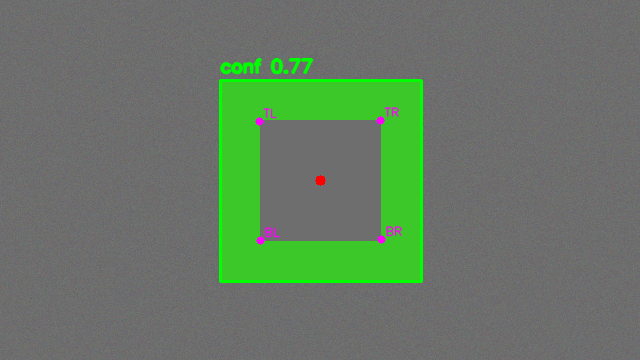
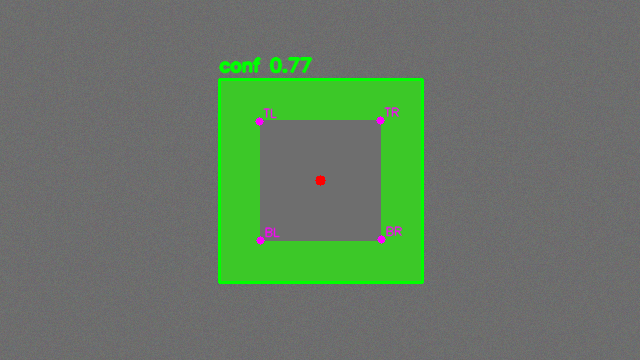
gate_detector blur

Changed region(s): [[0.3438, 0.1528, 0.6562, 0.2444], [0.3438, 0.7639, 0.6562, 0.7944]]

diff --git a/vision/gate_detector.py b/vision/gate_detector.py
@@ -57,6 +57,14 @@ DEFAULT_CFG = {
     "require_hole": True,        # enforce the annulus test on large candidates
     "hole_min_bbox_frac": 0.025, # bbox area / frame area above which the hole is mandatory
     "min_squareness": 0.35,  # outer bbox aspect floor (1.0 = square); banners are ~0.1-0.3
+    # Light pre-blur (2026-07-26): denoises the HSV mask so thin/aliased ring pixels
+    # threshold consistently frame-to-frame. Odd kernel; 0/1 disables.
+    "blur_ksize": 3,
+    # Next-gate handoff (2026-07-26): when the current gate fills the frame (we are at
+    # threading range) the guidance center should transfer THROUGH the aperture to the
+    # next gate visible inside the hole, so approach guidance is continuous across the
+    # pass instead of dying when gate 1 exits the frame.
+    "handoff_bbox_frac": 0.30,   # bbox/frame above which we look through the hole (0 = off)
 }
 
 
@@ -133,6 +141,12 @@ def detect_gate(bgr: np.ndarray, cfg: Optional[dict] = None) -> Optional[GateDet
 
     cfg = _make_cfg(cfg)
 
+    bk = int(cfg.get("blur_ksize", 0) or 0)
+    if bk >= 3:
+        if bk % 2 == 0:
+            bk += 1
+        bgr = cv2.GaussianBlur(bgr, (bk, bk), 0)
+
     hsv = cv2.cvtColor(bgr, cv2.COLOR_BGR2HSV)
     mask = _build_mask(hsv, cfg)
 
@@ -152,7 +166,7 @@ def detect_gate(bgr: np.ndarray, cfg: Optional[dict] = None) -> Optional[GateDet
     frame_px = float(bgr.shape[0] * bgr.shape[1])
     hole_min_bbox = float(cfg["hole_min_bbox_frac"]) * frame_px
 
-    best = None  # (score, index, inner_contour_or_None, inner_area)
+    candidates = []  # (score, index, inner_contour_or_None, inner_area, bbox)
     for i, cnt in enumerate(contours):
         # Only consider outer contours (no parent) as the gate frame body.
         if hierarchy[i][3] != -1:
@@ -200,13 +214,32 @@ def detect_gate(bgr: np.ndarray, cfg: Optional[dict] = None) -> Optional[GateDet
         # frame to frame, which showed up as the range bouncing ~16m <-> ~21m in the logs.
         # Make AREA the dominant term (nearest wins) while still requiring squareness/fill.
         score = area * (0.5 + 0.5 * square) * (0.5 + 0.5 * extent)
-        if best is None or score > best[0]:
-            best = (score, i, inner if has_hole else None, inner_area)
+        candidates.append((score, i, inner if has_hole else None, inner_area, (x, y, w, h)))
 
-    if best is None:
+    if not candidates:
         return None
 
-    _, idx, inner, inner_area = best
+    best = max(candidates, key=lambda c: c[0])
+
+    # Next-gate handoff: at threading range the current gate fills the frame; if the
+    # next gate is visible THROUGH its hole, report that one so the guidance center
+    # transfers through the aperture instead of dying when the near ring exits view.
+    handoff_frac = float(cfg.get("handoff_bbox_frac", 0.0) or 0.0)
+    _, _, b_inner, _, (bx, by, bw, bh) = best
+    if handoff_frac > 0 and b_inner is not None and bw * bh >= handoff_frac * frame_px:
+        hx, hy, hw, hh = cv2.boundingRect(b_inner)
+        through = []
+        for c in candidates:
+            if c is best:
+                continue
+            cx0, cy0, cw0, ch0 = c[4]
+            ccx, ccy = cx0 + cw0 / 2.0, cy0 + ch0 / 2.0
+            if hx <= ccx <= hx + hw and hy <= ccy <= hy + hh:
+                through.append(c)
+        if through:
+            best = max(through, key=lambda c: c[0])
+
+    _, idx, inner, inner_area, _ = best
     outer = contours[idx]
     x, y, w, h = cv2.boundingRect(outer)
     bbox_px = (int(x), int(y), int(w), int(h))

diff --git a/dreamer/src/dreamer_drone/env/drone_racing_env.py b/dreamer/src/dreamer_drone/env/drone_racing_env.py
@@ -162,6 +162,28 @@ class DroneRacingEnv:
         term = self.term_fn.check(ctx.dt_sim, snap.active_gate,
                                   snap.finished, collision_threat)
 
+        # Late gate-pass grace (2026-07-26): race_status lags the physical crossing
+        # (~0.75s update period measured), so a thread-then-clip crash can terminate
+        # the episode BEFORE the sim reports the pass — the +40 (the whole point of
+        # the episode) silently vanished. On a collision ending, poll briefly for a
+        # late active_gate increment and credit it to this final step.
+        if term.terminated and term.reason == "collision":
+            base_gate = int(snap.active_gate) if snap.active_gate is not None else None
+            deadline = time.time() + 1.2
+            while time.time() < deadline:
+                time.sleep(0.1)
+                late = self.priv.snapshot()
+                if (late.active_gate is not None and base_gate is not None
+                        and int(late.active_gate) > base_gate):
+                    delta = int(late.active_gate) - base_gate
+                    rc.gate_pass += self.cfg.reward.w_gate * delta
+                    rc.total += self.cfg.reward.w_gate * delta
+                    rc.raw["late_gate_pass"] = float(delta)
+                    snap = late   # info/_ep_max_gate below see the corrected gate
+                    print(f"[env] late gate pass credited (+{delta} gate) after collision",
+                          flush=True)
+                    break
+
         if snap.active_gate is not None:
             self._ep_max_gate = max(self._ep_max_gate, int(snap.active_gate))
 
